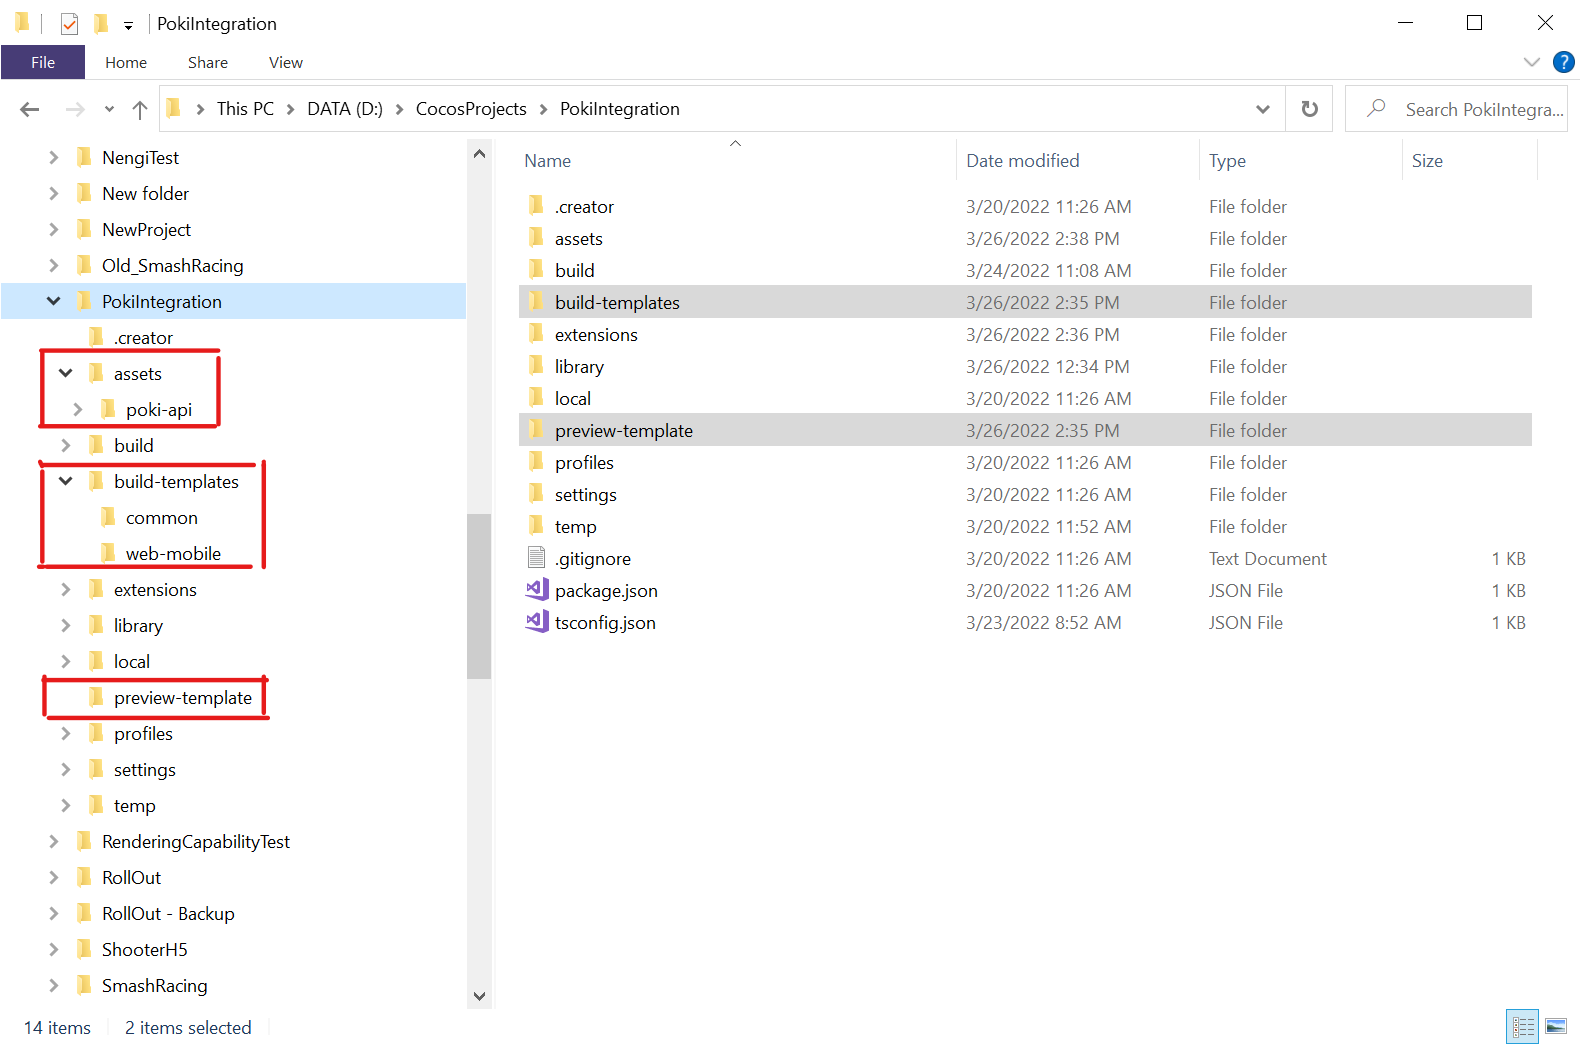
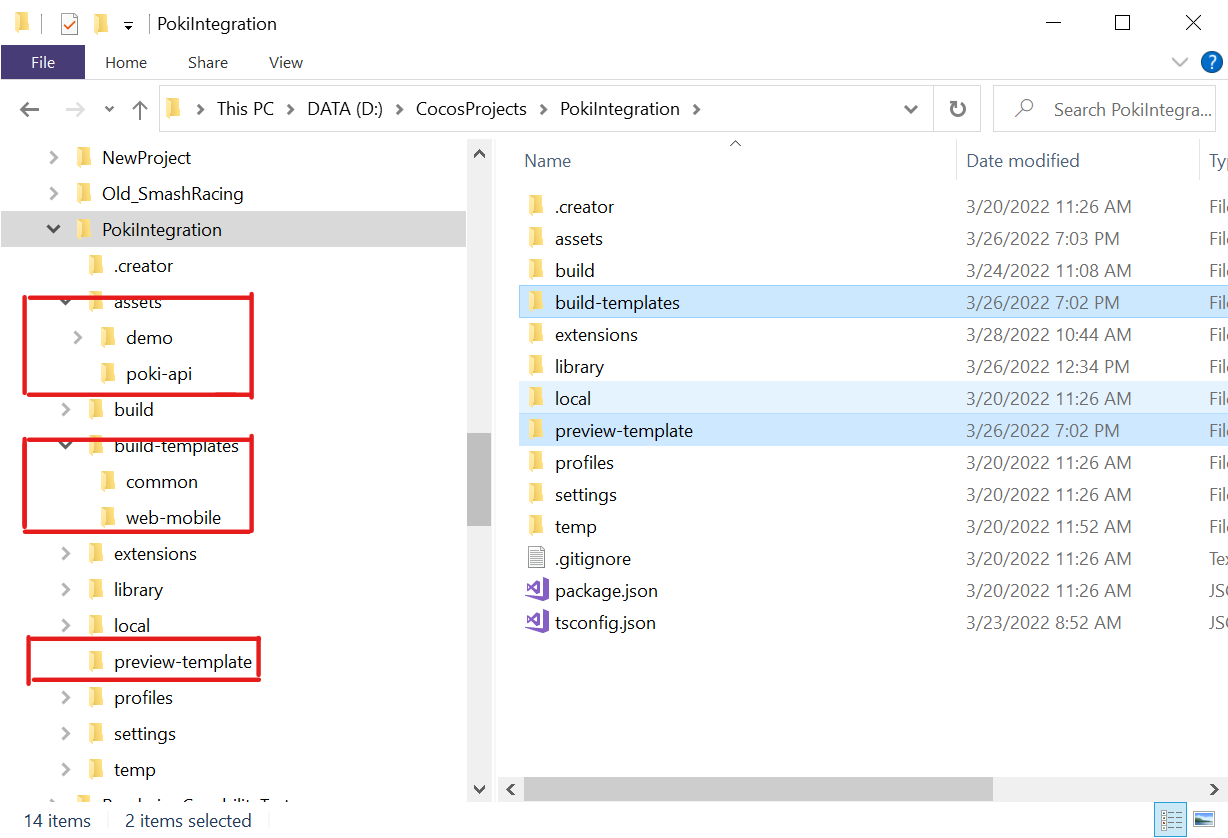
Updating images for extension.

diff --git a/readme.md b/readme.md
@@ -28,6 +28,10 @@ clone this repo under the *extensions* directory using command
 ## 2.Enable extension
 Once you have done the installation go to the extensions manager and ensure that the 
 poki-build extension is enabled. 
+open extension manager
+![extension-manager-open](./docs/images/extension-manager-launch.png)
+
+Under project tab, ensure that poki-sdk is enabled. If it's not enabled, enable it. 
 ![extension-enable](./docs/images/poki_build_extension_enable.png)
 
 The extension creates the following files in your project directory.
@@ -39,7 +43,7 @@ The extension creates the following files in your project directory.
 - assets/demo/demo.scene
 - assets/demo/DemoScript.ts
 
-#TODO screenshot of directories created. 
+![folders-created](./docs/images/poki_files_added.png)
 
 ## 3.Usage 
 In your component scripts, you will be able to import CCPokiSDK and use it to interact with the PokiSDK. The following are the functions that are available for you to use from your game scripts. Checkout the DemoScript.ts for example usage.
